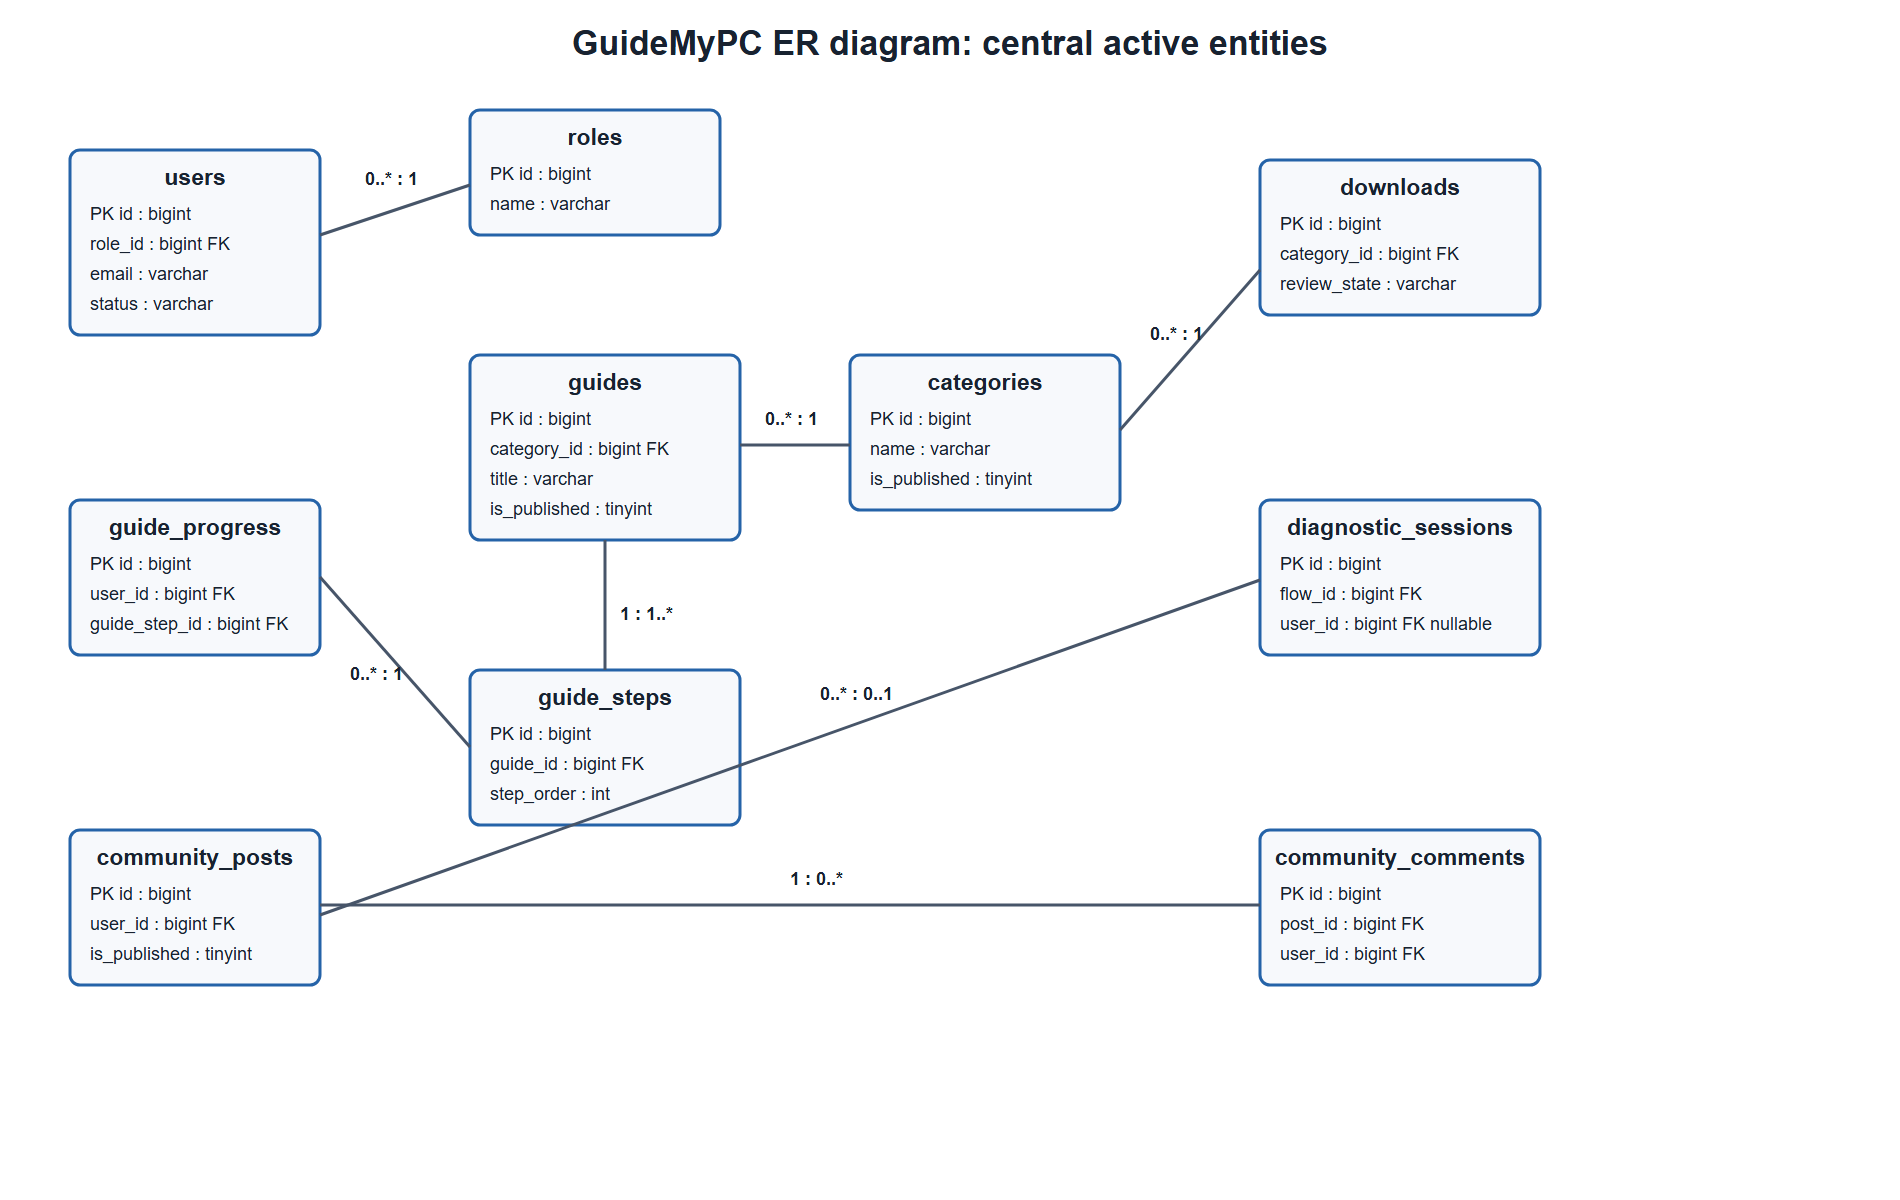
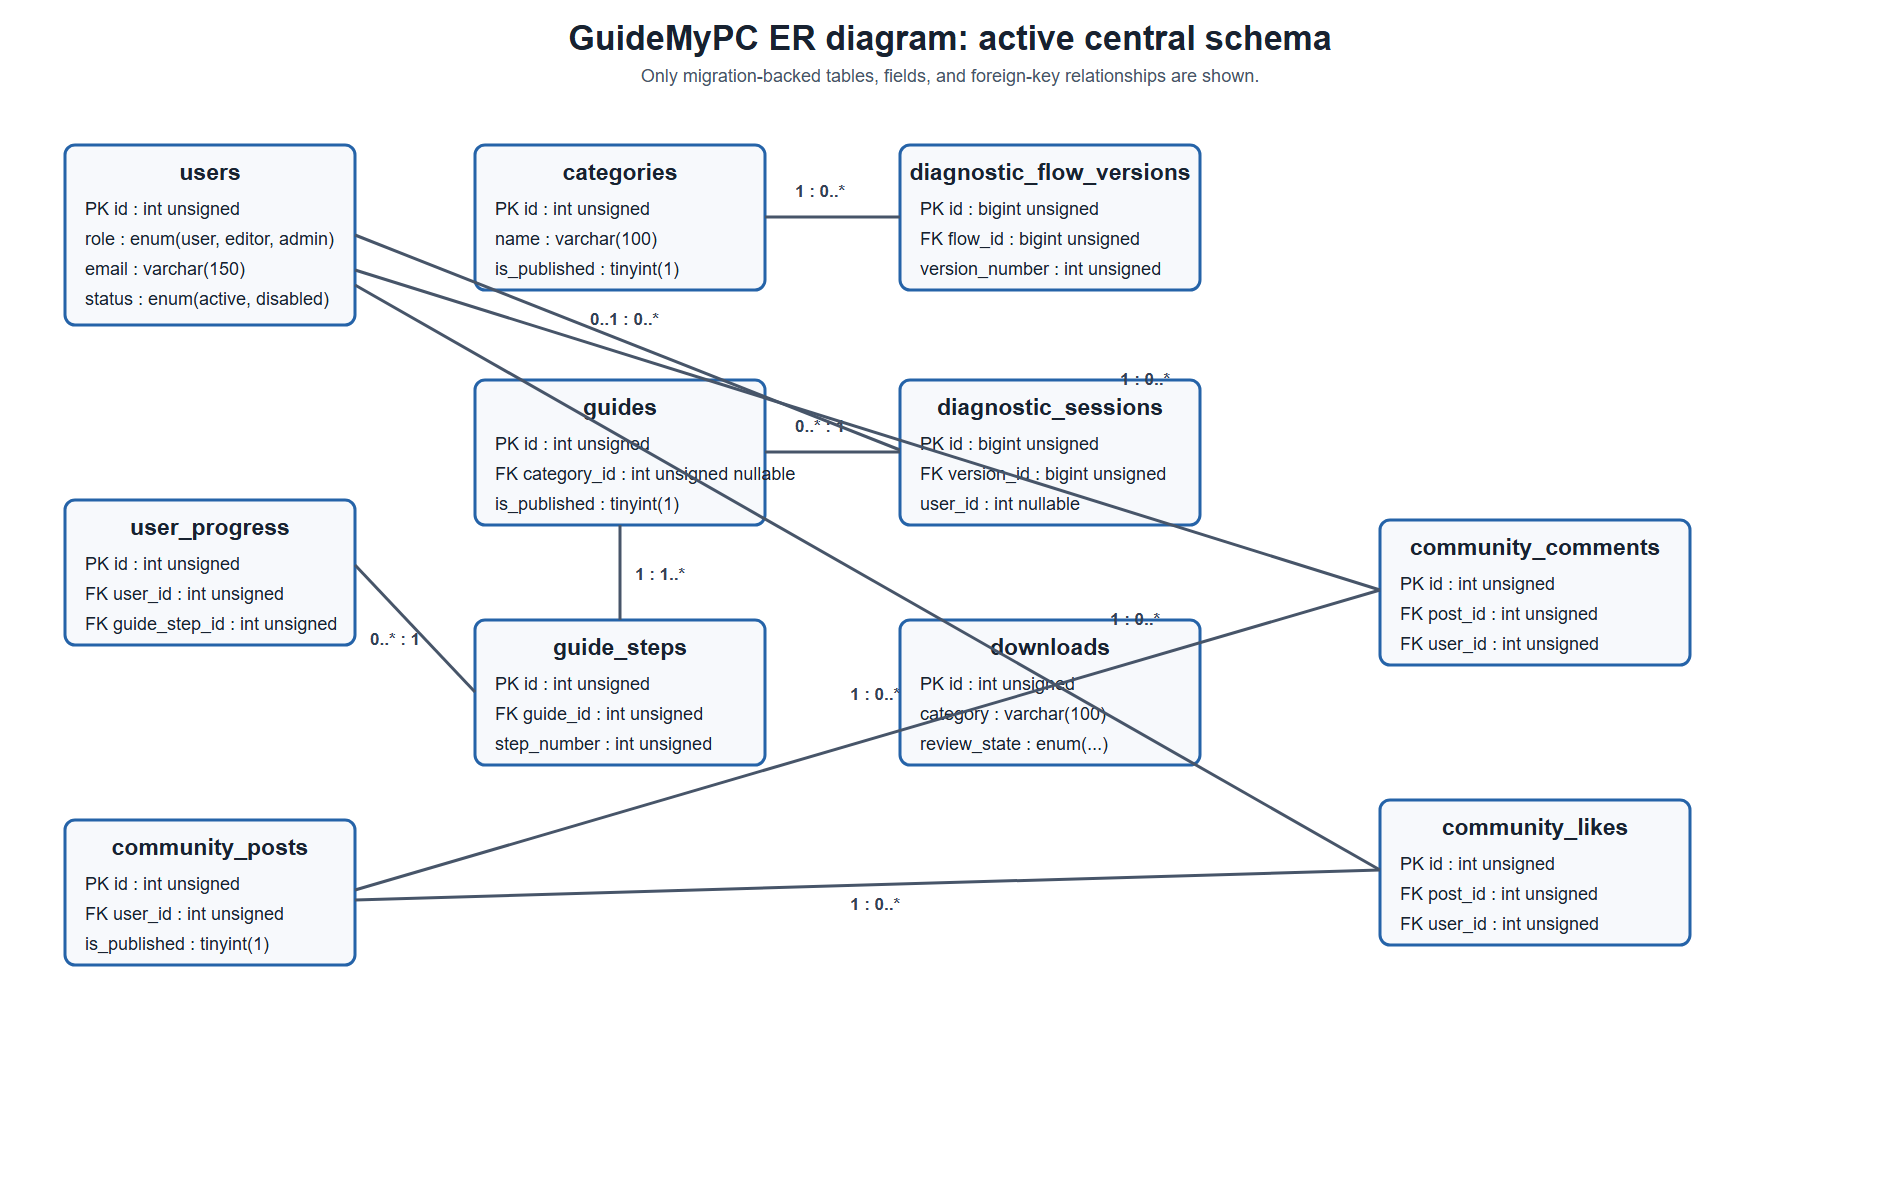
Fix final submission consistency

diff --git a/docs/submission/artifact-evidence.md b/docs/submission/artifact-evidence.md
@@ -2,8 +2,8 @@
 
 Artifact update date: 2026-07-29
 Working branch: `report-compliance-fix`
-Release identity: the exact local commit is recorded in the ignored DOCX files
-and generated archive manifest after the one authorized local commit.
+Release identity: the exact final local commit is recorded in the ignored DOCX
+files and generated archive manifest after the authorized release commit.
 
 This record covers ignored private/generated submission artifacts. Word files,
 personal information, UML files, screenshot PNGs, and ZIP files are not added
@@ -14,11 +14,10 @@ personal information, UML files, screenshot PNGs, and ZIP files are not added
   Paradigm project with Use Case, Class, Activity, and State Machine diagrams.
 - The four PNG exports are `use-case.png`, `class-diagram.png`,
   `activity-diagram.png`, and `state-machine.png`.
-- On 2026-07-29, the Class Diagram was manually revised in Visual Paradigm and
-  saved in the VPP project. Its attributes, data types, operations, visibility,
-  multiplicity, relationships, and layout were improved. Visual Paradigm wrote
-  the refreshed raster export as JPEG; `class-diagram.png` is its direct
-  lossless PNG conversion for the required filename and Word embedding.
+- The Class Diagram remains a native-VPP-controlled artifact. Before final
+  packaging, its VPP source and PNG export must be checked together for exact
+  terminology and camelCase consistency; the PNG is never treated as an
+  independent source of truth.
 - The diagrams cover only retained Guest, Member, Editor, and Administrator
   behavior. Excluded product areas are not presented as active capabilities.
 
@@ -28,8 +27,8 @@ personal information, UML files, screenshot PNGs, and ZIP files are not added
   1800x1100 architecture PNG. It depicts browser-to-Apache-to-PHP-to-MariaDB
   request handling and the two bounded Search JSON endpoints.
 - `docs/submission/diagrams/er-diagram.svg` is the retained source for the
-  1900x1200 concise ER PNG. It depicts only central active entities and their
-  documented keys and relationships.
+  1900x1200 concise ER PNG. It depicts only migration-backed central entities,
+  real field names, and real foreign-key relationships.
 
 ## Screenshots
 
@@ -60,7 +59,7 @@ personal information, UML files, screenshot PNGs, and ZIP files are not added
 
 ## Remaining Gate
 
-Run current repository validation, create the one authorized local commit,
-record that exact SHA in ignored generated artifacts, build and inspect the
-source archive, assemble the outer four-file archive, and obtain any required
-human review.
+Correct the native Class Diagram and export it from VPP, run current repository
+validation, create the authorized release commit, record that exact SHA in
+ignored generated artifacts, then rebuild and inspect both archives. Obtain any
+required human review separately.

diff --git a/docs/submission/final-checklist.md b/docs/submission/final-checklist.md
@@ -10,7 +10,7 @@ claimed by this document.
 | --- | --- |
 | Repository URL | `https://github.com/jkhwaj/GuideMyPC` |
 | Main branch | `main` |
-| Submitted release commit | Recorded in the ignored DOCX files and generated package manifest after the local commit |
+| Submitted release commit | Record the exact final SHA in ignored DOCX files and the generated package manifest after the release commit |
 | Project type | Individual project; one student; 100% contribution |
 | Human sign-off | Required before submission |
 
@@ -21,15 +21,15 @@ claimed by this document.
 | Student Readme | `Readme.docx` | Exists; private and ignored | Required before submission |
 | Final report | `GuideMyPC-Final-Report.docx` | Exists; private and ignored | Required before submission |
 | UML project | `GuideMyPC.vpp` | Exists with four native diagrams | Required before submission |
-| Source archive | `GuideMyPC-Source.zip` | Must be regenerated after the local commit | Required before submission |
-| Outer archive | `GuideMyPC-Submission.zip` | Must be assembled after source-archive verification | Required before submission |
+| Source archive | `GuideMyPC-Source.zip` | Existing archive must be regenerated and reverified after the release commit | Required before submission |
+| Outer archive | `GuideMyPC-Submission.zip` | Existing archive must be rebuilt after source-archive verification | Required before submission |
 
 ## Content Checks
 
 - [x] The report uses the required sections 1 through 8 and singular project language.
 - [x] The documented scope is limited to verified-core capabilities and the two bounded Search JSON endpoints.
 - [x] The report plan includes architecture and ER diagrams with retained source files.
-- [x] The UML source contains Use Case, Class, Activity, and State Machine diagrams; the Class Diagram was manually updated in Visual Paradigm.
+- [ ] Confirm the Class Diagram terminology in the native VPP and export a matching PNG.
 - [x] Exactly ten screenshot entries are documented, including two 320x800 mobile captures and a safe 404 response.
 - [x] Third-party software is distinguished from first-party application assets.
 - [ ] Run and record current read-only repository validation against the final local commit.
@@ -37,7 +37,7 @@ claimed by this document.
 
 ## Archive And Privacy Checks
 
-- [ ] Run `composer run audit:cleanup` and the existing source-package process.
+- [ ] Run `composer run audit:cleanup` and the existing source-package process for the final release commit.
 - [ ] Inspect `GuideMyPC-Source.zip` for its required root structure and prohibited content.
 - [ ] Validate a clean extraction only if the required disposable database environment is available.
 - [ ] Assemble `GuideMyPC-Submission.zip` with exactly `Readme.docx`, `GuideMyPC-Final-Report.docx`, `GuideMyPC.vpp`, and `GuideMyPC-Source.zip`.

diff --git a/docs/submission/report-outline.md b/docs/submission/report-outline.md
@@ -8,7 +8,7 @@ language because the project was completed by one student.
 
 1. **חלוקת תפקידים בפרויקט אישי**: State that the project has one student, no partners, and a 100% contribution. Copy the student name only from the private `Readme.docx`. List actual responsibilities: requirements analysis, architecture, frontend, backend, database, authentication, authorization, responsive design, tests, fixes, UML, GitHub, documentation, report, and packaging.
 2. **תיאור מילולי של המערכת**: Maximum two pages. Cover the summary, support problem, intended audience, implemented capabilities, uniqueness, and known limitations. The system supports everyday computer users with Guides, progress, public Knowledge, approved Downloads, Search, accounts, Diagnostics, Dashboard, canonical Community, favorites, ratings, and active administration workflows.
-3. **טכנולוגיות אינטרנט**: Include architecture, frontend, backend, database, and target platform. Use `diagrams/architecture.svg` and its 1800x1100 PNG export for the architecture figure. Use `diagrams/er-diagram.svg` and its 1900x1200 PNG export for the concise ER figure.
+3. **טכנולוגיות אינטרנט**: Include architecture, frontend, backend, database, and target platform. Use `diagrams/architecture.svg` and its 1800x1100 PNG export for the architecture figure. Use `diagrams/er-diagram.svg` and its 1900x1200 PNG export for the concise ER figure; it must use exact migration-backed table, field, and foreign-key names.
 4. **תדפיסי מסכים**: Embed exactly ten numbered screenshots from `screenshots/README.md`, including the two 320x800 mobile captures and the safe 404 response.
 5. **מודלי UML**: Embed the Use Case, Class, Activity, and State Machine exports. The Class Diagram must be the current export from the native `GuideMyPC.vpp` project.
 6. **ניהול גרסאות ב־GitHub**: Use the repository URL, actual branch and commit history, and only real pull requests and checks. Branches and pull requests supported orderly individual work; they do not imply a team or review.
